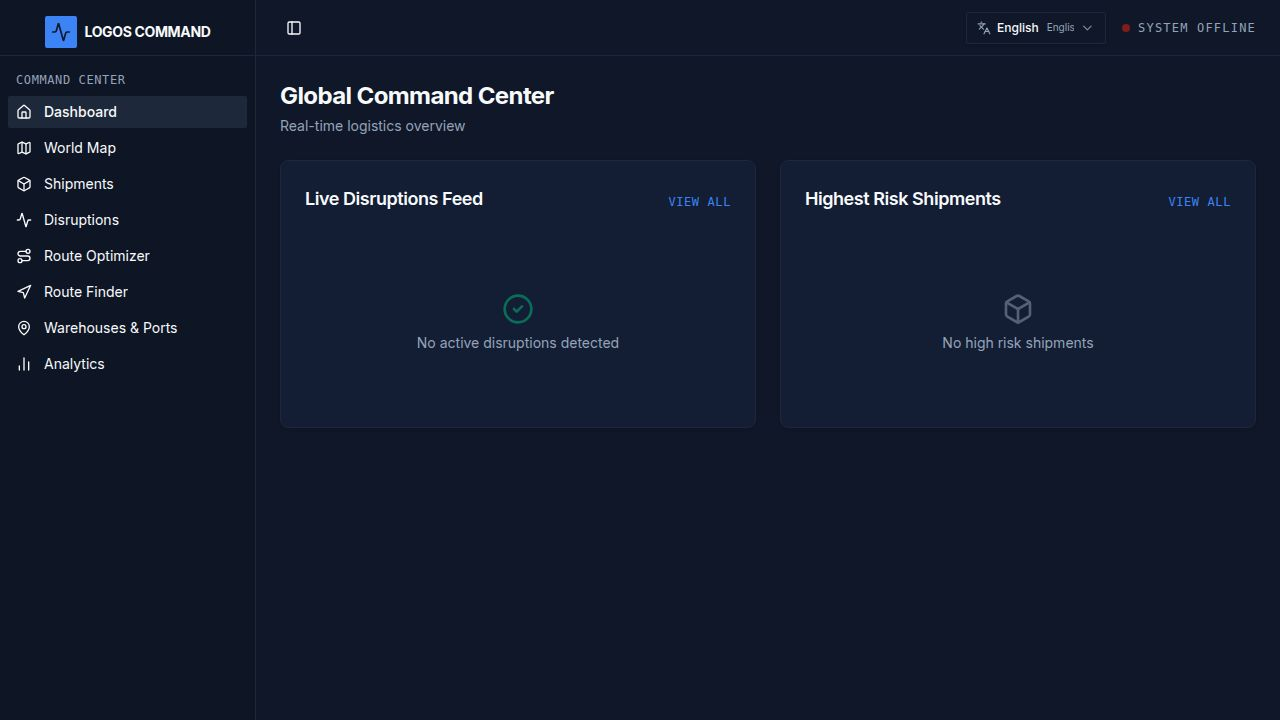
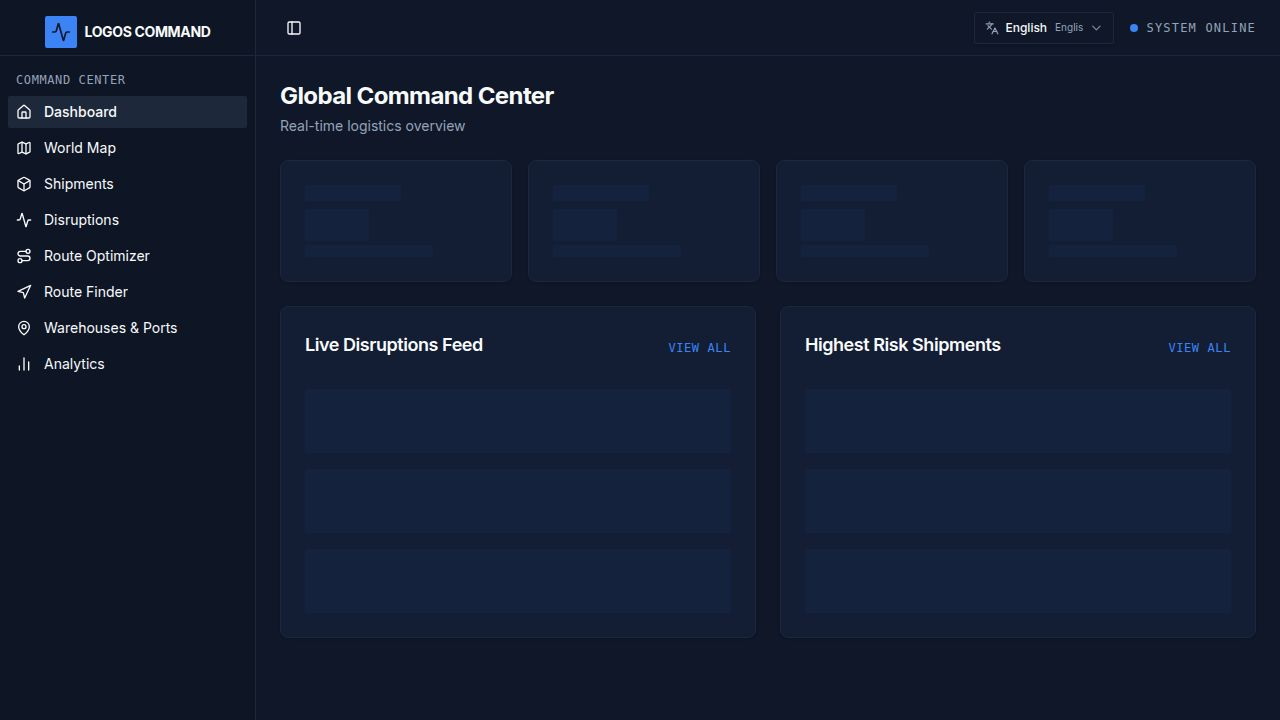
Add ability to switch between different map views and fix errors
Adds a map type switcher to `map.tsx` allowing users to select between roadmap, satellite, hybrid, and terrain views.

Replit-Commit-Author: Agent
Replit-Commit-Session-Id: d483769f-fc9e-452e-96dc-b56a5f2a4278
Replit-Commit-Checkpoint-Type: full_checkpoint
Replit-Commit-Event-Id: 43175cb8-5de4-4f50-9d71-bb611c68ccc1
Replit-Commit-Screenshot-Url: https://storage.googleapis.com/screenshot-production-us-central1/e51ade70-b5d9-4a78-b7fb-eb6a1a3883c0/d483769f-fc9e-452e-96dc-b56a5f2a4278/U59YbLF
Replit-Helium-Checkpoint-Created: true

diff --git a/artifacts/supply-chain/src/pages/map.tsx b/artifacts/supply-chain/src/pages/map.tsx
@@ -7,7 +7,7 @@ import { useListShipments, useListWarehouses, useListDisruptions } from "@worksp
 import {
   Search, Navigation, X, AlertTriangle, Loader2,
   ArrowRight, PencilRuler, Map as MapIcon, Package, Building2,
-  LocateFixed, LocateOff, Crosshair, Truck
+  LocateFixed, LocateOff, Crosshair, Truck, Layers
 } from "lucide-react";
 import { Input } from "@/components/ui/input";
 import { Button } from "@/components/ui/button";
@@ -209,6 +209,9 @@ export default function MapPage() {
 
   /* filter */
   const [filter, setFilter] = useState<"all" | "shipments" | "warehouses">("all");
+
+  /* map type */
+  const [mapType, setMapType] = useState<"roadmap" | "satellite" | "hybrid" | "terrain">("roadmap");
 
   /* live location tracking */
   const { tracking, location, error: geoError, start: startTracking, stop: stopTracking } = useGeolocation();
@@ -640,11 +643,46 @@ export default function MapPage() {
             style={{ height: "100%", width: "100%" }}
             worldCopyJump={true}
           >
-            <TileLayer
-              url="https://{s}.tile.openstreetmap.org/{z}/{x}/{y}.png"
-              attribution='&copy; <a href="https://www.openstreetmap.org/copyright">OpenStreetMap</a>'
-              maxZoom={18}
-            />
+            {mapType === "roadmap" && (
+              <TileLayer
+                url="https://{s}.tile.openstreetmap.org/{z}/{x}/{y}.png"
+                attribution='&copy; <a href="https://www.openstreetmap.org/copyright">OpenStreetMap</a>'
+                maxZoom={19}
+              />
+            )}
+            {mapType === "satellite" && (
+              <TileLayer
+                url="https://server.arcgisonline.com/ArcGIS/rest/services/World_Imagery/MapServer/tile/{z}/{y}/{x}"
+                attribution='Tiles &copy; Esri &mdash; Source: Esri, Maxar, Earthstar Geographics, and the GIS User Community'
+                maxZoom={19}
+              />
+            )}
+            {mapType === "hybrid" && (
+              <>
+                <TileLayer
+                  url="https://server.arcgisonline.com/ArcGIS/rest/services/World_Imagery/MapServer/tile/{z}/{y}/{x}"
+                  attribution='Tiles &copy; Esri &mdash; Source: Esri, Maxar, Earthstar Geographics'
+                  maxZoom={19}
+                />
+                <TileLayer
+                  url="https://server.arcgisonline.com/ArcGIS/rest/services/Reference/World_Boundaries_and_Places/MapServer/tile/{z}/{y}/{x}"
+                  attribution='Labels &copy; Esri'
+                  maxZoom={19}
+                />
+                <TileLayer
+                  url="https://server.arcgisonline.com/ArcGIS/rest/services/Reference/World_Transportation/MapServer/tile/{z}/{y}/{x}"
+                  attribution=''
+                  maxZoom={19}
+                />
+              </>
+            )}
+            {mapType === "terrain" && (
+              <TileLayer
+                url="https://{s}.tile.opentopomap.org/{z}/{x}/{y}.png"
+                attribution='Map data: &copy; <a href="https://www.openstreetmap.org/copyright">OpenStreetMap</a>, <a href="http://viewfinderpanoramas.org">SRTM</a> | Map style: &copy; <a href="https://opentopomap.org">OpenTopoMap</a> (CC-BY-SA)'
+                maxZoom={17}
+              />
+            )}
 
             <FlyToController center={!routePath && !tracking ? flyCenter : null} />
             <FitBoundsController bounds={!tracking ? routeBounds : null} />
@@ -806,6 +844,29 @@ export default function MapPage() {
                 </Marker>
               ))}
           </MapContainer>
+
+          {/* map type switcher */}
+          <div className="absolute top-[90px] left-3 z-[400] bg-background/90 backdrop-blur-sm border border-border rounded-md shadow-lg overflow-hidden">
+            <div className="flex items-center gap-1 px-2 py-1 border-b border-border bg-muted/40">
+              <Layers className="h-3 w-3 text-primary" />
+              <span className="text-[10px] font-mono uppercase tracking-wider text-muted-foreground">Map Type</span>
+            </div>
+            <div className="flex flex-col">
+              {(["roadmap", "satellite", "hybrid", "terrain"] as const).map((m) => (
+                <button
+                  key={m}
+                  onClick={() => setMapType(m)}
+                  className={`text-left px-3 py-1.5 text-xs font-mono uppercase tracking-wider transition-colors border-l-2 ${
+                    mapType === m
+                      ? "bg-primary/15 text-primary border-l-primary font-bold"
+                      : "text-muted-foreground border-l-transparent hover:bg-muted hover:text-foreground"
+                  }`}
+                >
+                  {m}
+                </button>
+              ))}
+            </div>
+          </div>
 
           {/* overlay counters */}
           <div className="absolute top-3 right-3 z-[400] flex flex-col gap-1.5 pointer-events-none select-none">